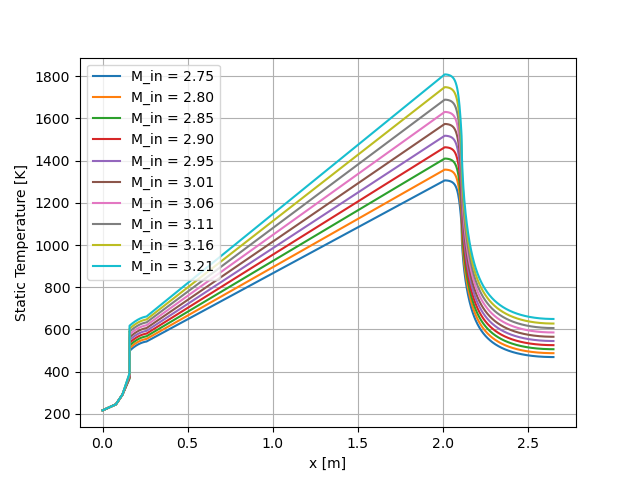
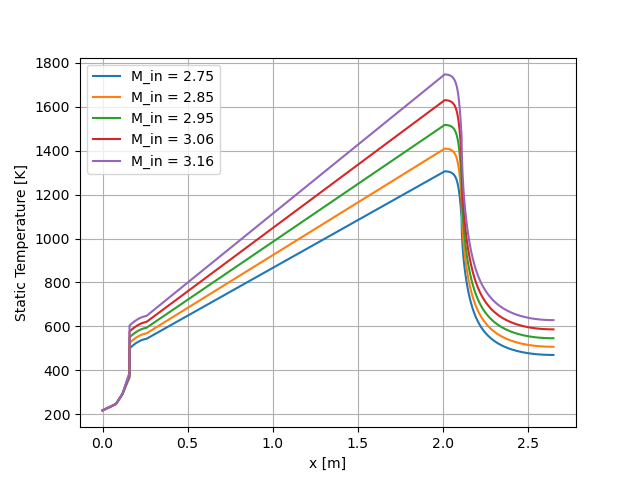
thrust calcs in eval

diff --git a/Final/evaluate.py b/Final/evaluate.py
@@ -18,6 +18,10 @@ from combustor import evaluate_combustor
 from converging_section import analyze_converging_section
 from nozzle import analyze_nozzle
 
+from plot_top import plot_top
+from plot_bottom import plot_bottom
+from thrust_calc import calculate_thrust
+
 # Atmosphere:
 P_atm = 9112.32  # Pa
 T_atm = 216.65  # K
@@ -32,8 +36,8 @@ with open("Final/profiles/combustor_dict.pkl", "rb") as f:
 converge_df = pd.read_pickle("Final/profiles/converge_df.pkl")
 nozzle_df = pd.read_pickle("Final/profiles/nozzle_df.pkl")
 
+# Inlet Parameters
 width = inlet_design_params_dict["width"] # m
-
 inlet = Inlet(**inlet_design_params_dict)
 inlet_xs = inlet.xs
 inlet_ys = inlet.ys
@@ -48,6 +52,8 @@ for M_in in M_atms:
         "Ts": [],
         "P0s": [],
         "T0s": [],
+        "Ss": [],
+        "Thrust": None,
         "fuel_info": {}
     })
 
@@ -125,10 +131,22 @@ for r in results:
     r["P0s"].extend(noz_Ps * P0_P(noz_Ms, gamma))
     r["T0s"].extend(noz_Ts * T0_T(noz_Ms, gamma))
 
+# -------------------------------------------------------------
+# THRUST
+# -------------------------------------------------------------
+# Get thrust input parameters
+_, _, top_profile_back_thickness = plot_top (inlet, 0, 0, results[0]["xs"][-1]- results[0]["xs"][0])
+_, _, length_of_front, angle_of_front = plot_bottom(inlet, diffuser_df, combustor_dict, converge_df["x_vals"], converge_df["height"], nozzle_df["x_vals"], nozzle_df["height"])
 
-#print(results)
+for r in results:
+    thrust = calculate_thrust(inlet, P_atm, M_in, T_atm, r["Ps"][-1], r["Ms"][-1], r["Ts"][-1], nozzle_df["height"].iloc[-1]* width, length_of_front, angle_of_front, top_profile_back_thickness, width)
+    r["Thrust"] = thrust
 
-stride = 5
+# -------------------------------------------------------------
+# PLOT ALL OUR RESULTS
+# -------------------------------------------------------------
+
+stride = 10
 
 plt.figure()
 for r in results[::stride]:
@@ -181,9 +199,29 @@ m_dot_fuel_vals = [r["fuel_info"]["m_dot_fuel_cmd_kg_s"] for r in results]
 plt.plot(M_in_vals, m_dot_fuel_vals)
 plt.xlabel("Mach number")
 plt.ylabel("Necessary fuel mass flow [kg/s]")
-plt.legend()
 plt.grid(True)
 plt.savefig('Final/results/fuel_flow_vs_mach.png')
+
+plt.figure()
+M_in_vals = [r["M_in"] for r in results]
+thrust_vals = [r["Thrust"] for r in results]
+plt.plot(M_in_vals, thrust_vals)
+plt.xlabel("Mach number")
+plt.ylabel("Thrust [N]")
+plt.grid(True)
+plt.savefig('Final/results/thrust_vs_mach.png')
+
+plt.figure()
+for r in results[::stride]:
+    T_vals = np.array(r["Ts"])
+    P_vals = np.array(r["Ps"])
+    v_vals = R_air * T_vals / P_vals
+    plt.plot(v_vals, P_vals, label=f"M_in = {r['M_in']:.2f}")
+plt.xlabel("v [kg/m^3]")
+plt.ylabel("P [Pa]")
+plt.legend()
+plt.grid(True)
+plt.savefig('Final/results/P-v.png')
 
 
 

diff --git a/Final/plot_bottom.py b/Final/plot_bottom.py
@@ -1,7 +1,7 @@
 import numpy as np
 from matplotlib import pyplot as plt
 
-def plot_bottom(ax, inlet, diffuser_df, combustor_dict, x5s, h5s, x6s, h6s):
+def plot_bottom(inlet, diffuser_df, combustor_dict, x5s, h5s, x6s, h6s):
     """
     Plots the bottom piece of ramjet
 
@@ -13,7 +13,6 @@ def plot_bottom(ax, inlet, diffuser_df, combustor_dict, x5s, h5s, x6s, h6s):
     h5s : height of converging section
     x6s : x coordinates of nozzle
     h6s : height of nozzle
-    ax : matplotlib axis object to plot on
 
     Outputs:
     top_face : list of points for top face
@@ -89,8 +88,8 @@ def plot_bottom(ax, inlet, diffuser_df, combustor_dict, x5s, h5s, x6s, h6s):
     bx = [p[0] for p in bottom_face]
     by = [p[1] for p in bottom_face]
 
-    ax.plot(xs, ys, label='Top face')
-    ax.plot(bx, by, label='Bottom face')
-    ax.axis('equal')
+    # ax.plot(xs, ys, label='Top face')
+    # ax.plot(bx, by, label='Bottom face')
+    # ax.axis('equal')
 
     return top_face, bottom_face, length_of_front, angle_of_front

diff --git a/Final/plot_top.py b/Final/plot_top.py
@@ -12,11 +12,10 @@ from inlet import inlet as Inlet
 def circle_top(xs, x_c, y_c, r):
     return y_c+np.sqrt(r**2-(x_c-xs)**2)
 
-def plot_top(ax, inlet, x_offset, y_offset, x_end):
+def plot_top(inlet, x_offset, y_offset, x_end):
     """
     plots top surface
     Parameters
-    ax : matplotlip axis to plot on
     inlet : inlet object
     x_offset : x offset
     y_offset: y offset
@@ -74,8 +73,8 @@ def plot_top(ax, inlet, x_offset, y_offset, x_end):
     xs_bottom = [i[0] for i in inner_coords]
     ys_bottom = [i[1] for i in inner_coords]
     
-    ax.plot(xs_top, ys_top)
-    ax.plot(xs_bottom, ys_bottom)
+    # ax.plot(xs_top, ys_top)
+    # ax.plot(xs_bottom, ys_bottom)
     
     return inner_coords, outer_coords, top_profile_back_thickness
     
